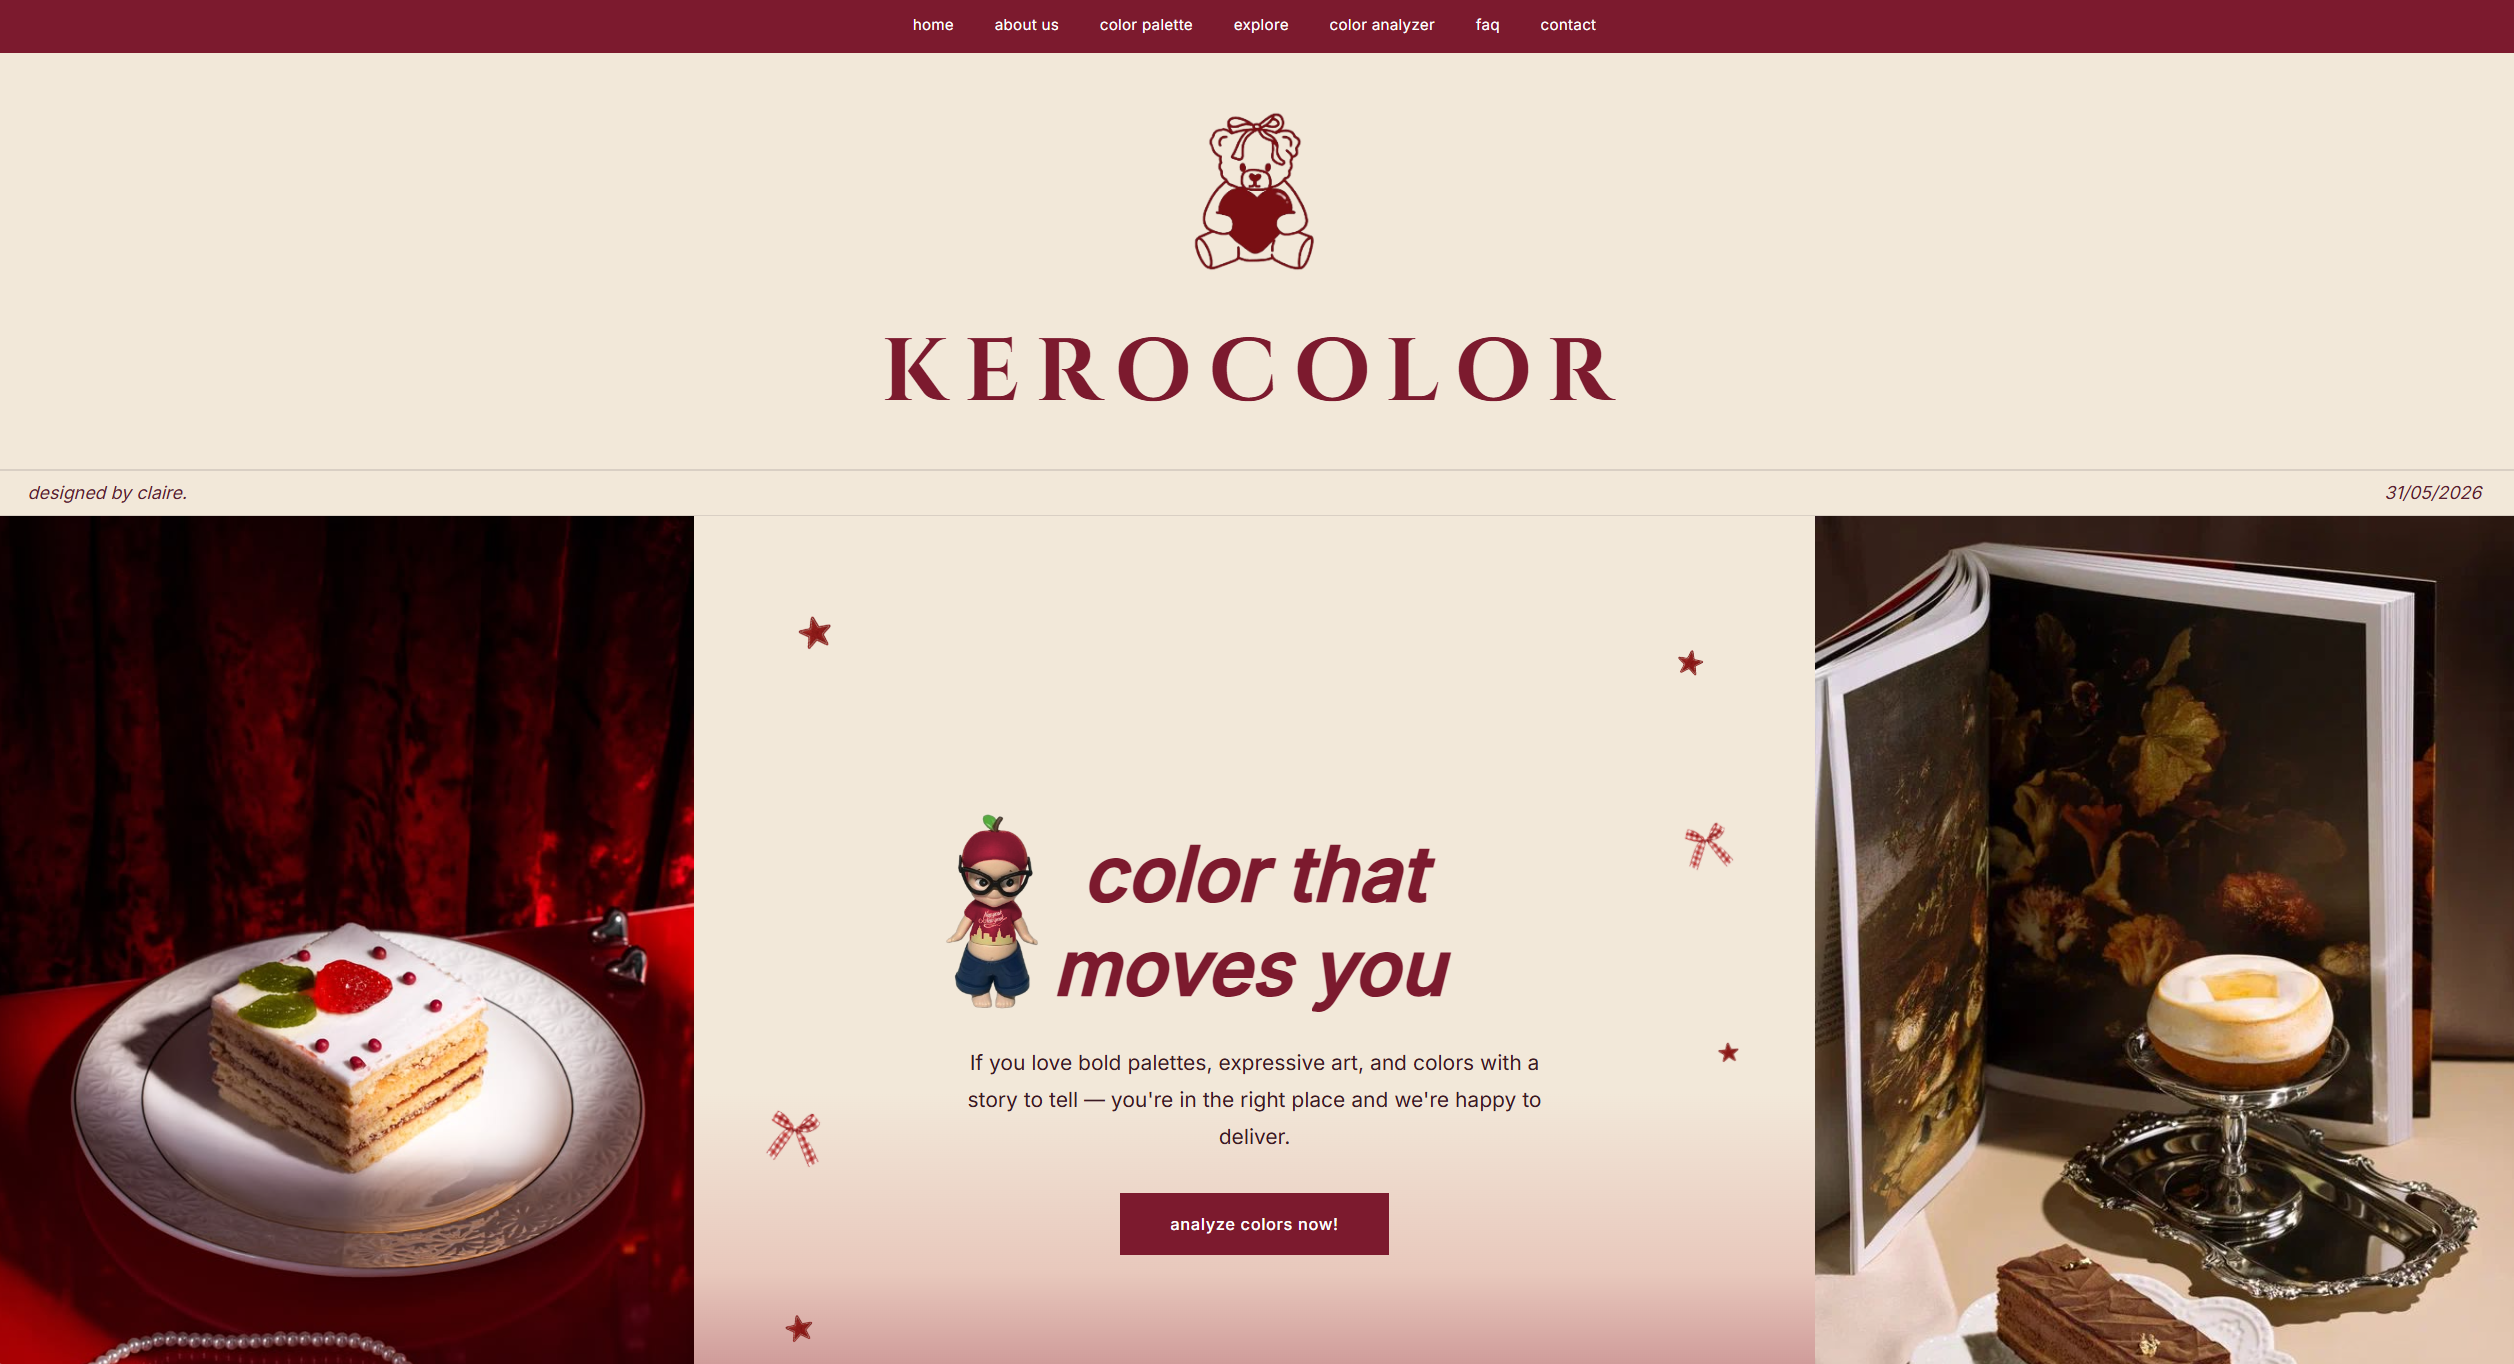
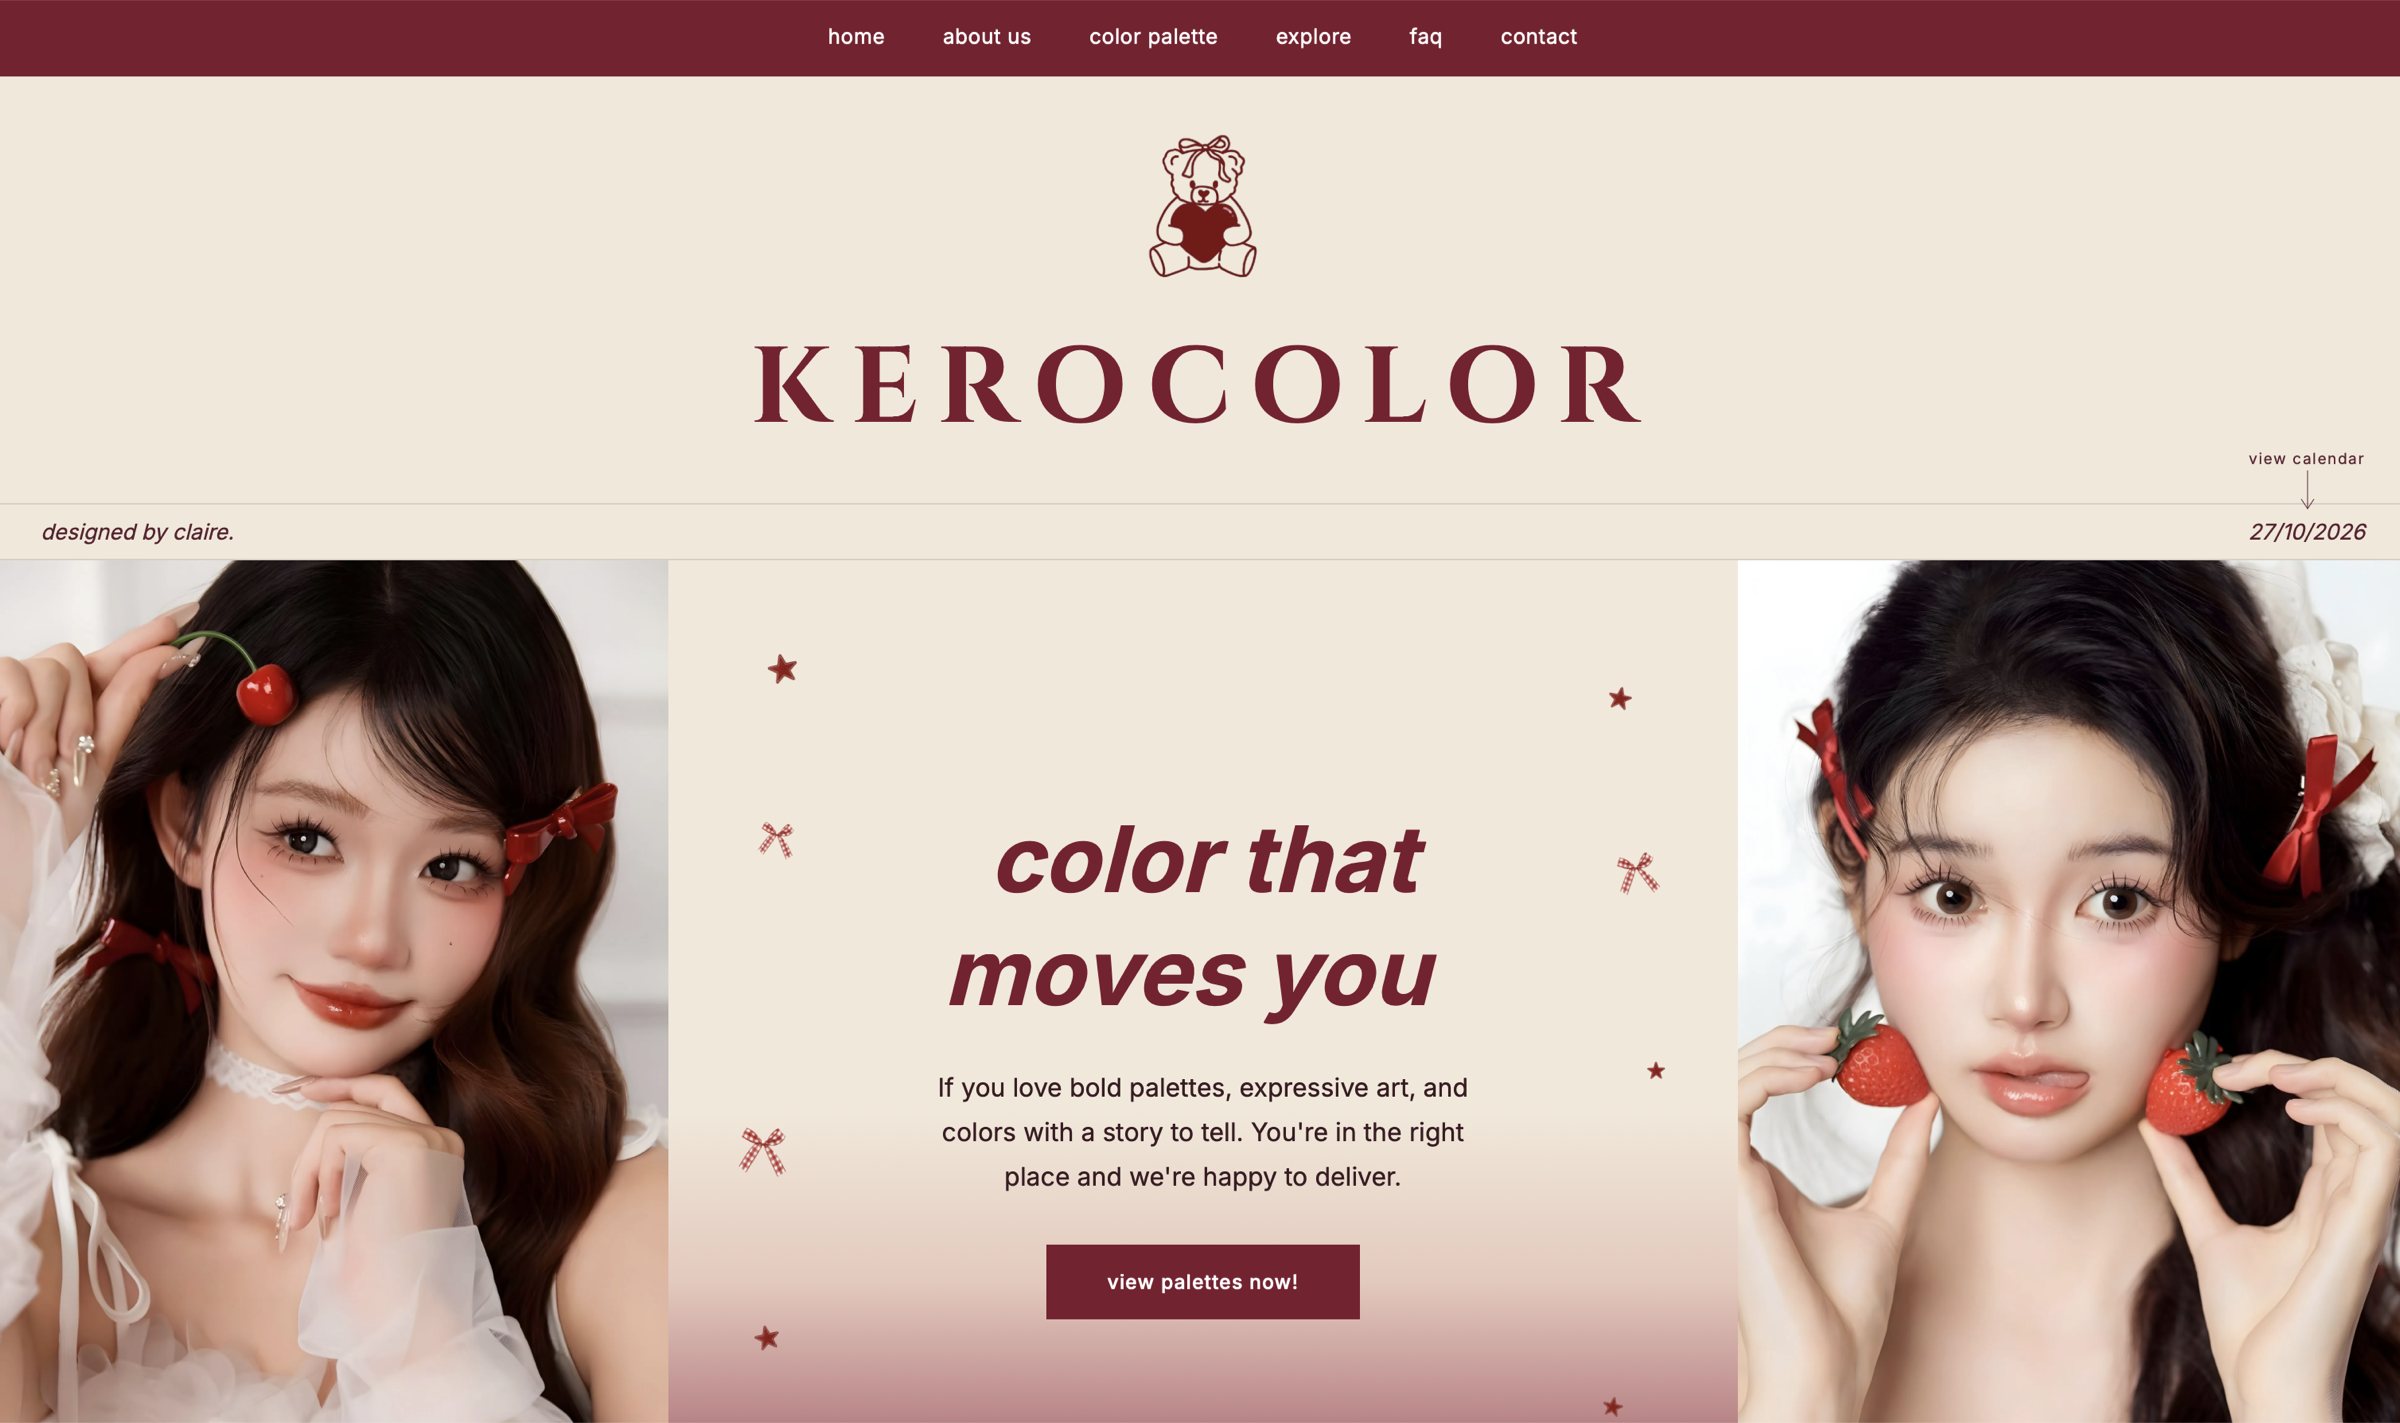
Update LinkedIn/OG thumbnail to latest homepage screenshot

diff --git a/index.html b/index.html
@@ -16,11 +16,11 @@
     <!-- Open Graph / LinkedIn thumbnail -->
     <meta property="og:title"       content="KeroColor" />
     <meta property="og:description" content="Color consultancy by Kero Group — crafting palettes that make brands unforgettable." />
-    <meta property="og:image"       content="https://kerocolor.vercel.app/linkedin.png" />
+    <meta property="og:image"       content="https://kerocolor.vercel.app/linkedin.png?v=20261027" />
     <meta property="og:url"         content="https://kerocolor.vercel.app" />
     <meta property="og:type"        content="website" />
     <meta name="twitter:card"       content="summary_large_image" />
-    <meta name="twitter:image"      content="https://kerocolor.vercel.app/linkedin.png" />
+    <meta name="twitter:image"      content="https://kerocolor.vercel.app/linkedin.png?v=20261027" />
     <link rel="preconnect" href="https://fonts.googleapis.com" />
     <link rel="preconnect" href="https://fonts.gstatic.com" crossorigin />
     <link href="https://fonts.googleapis.com/css2?family=Cinzel:wght@400;600;700&family=Cormorant+Garamond:ital,wght@0,400;0,500;1,400;1,600&family=Great+Vibes&family=Inter:wght@300;400;500;700;900&family=Urbanist:wght@300;400;500;600;700&display=swap" rel="stylesheet" />
